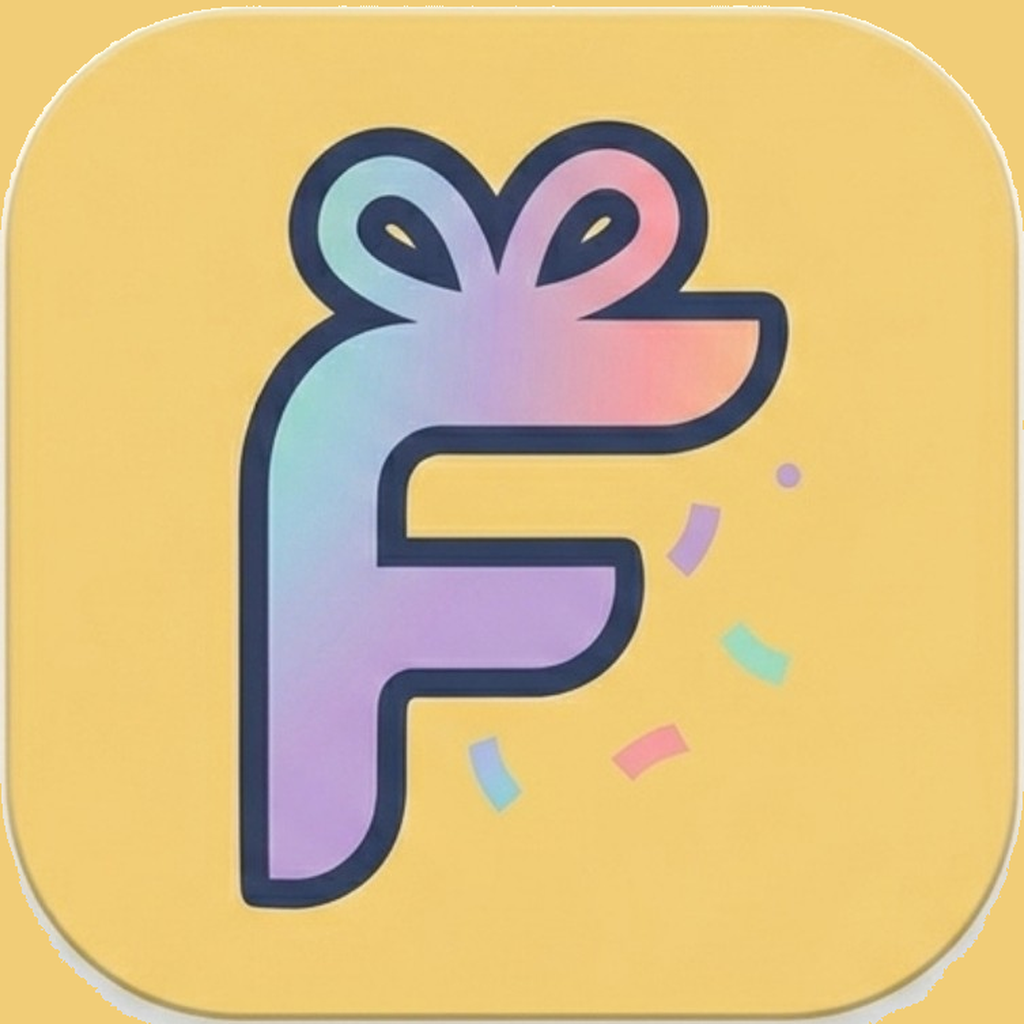
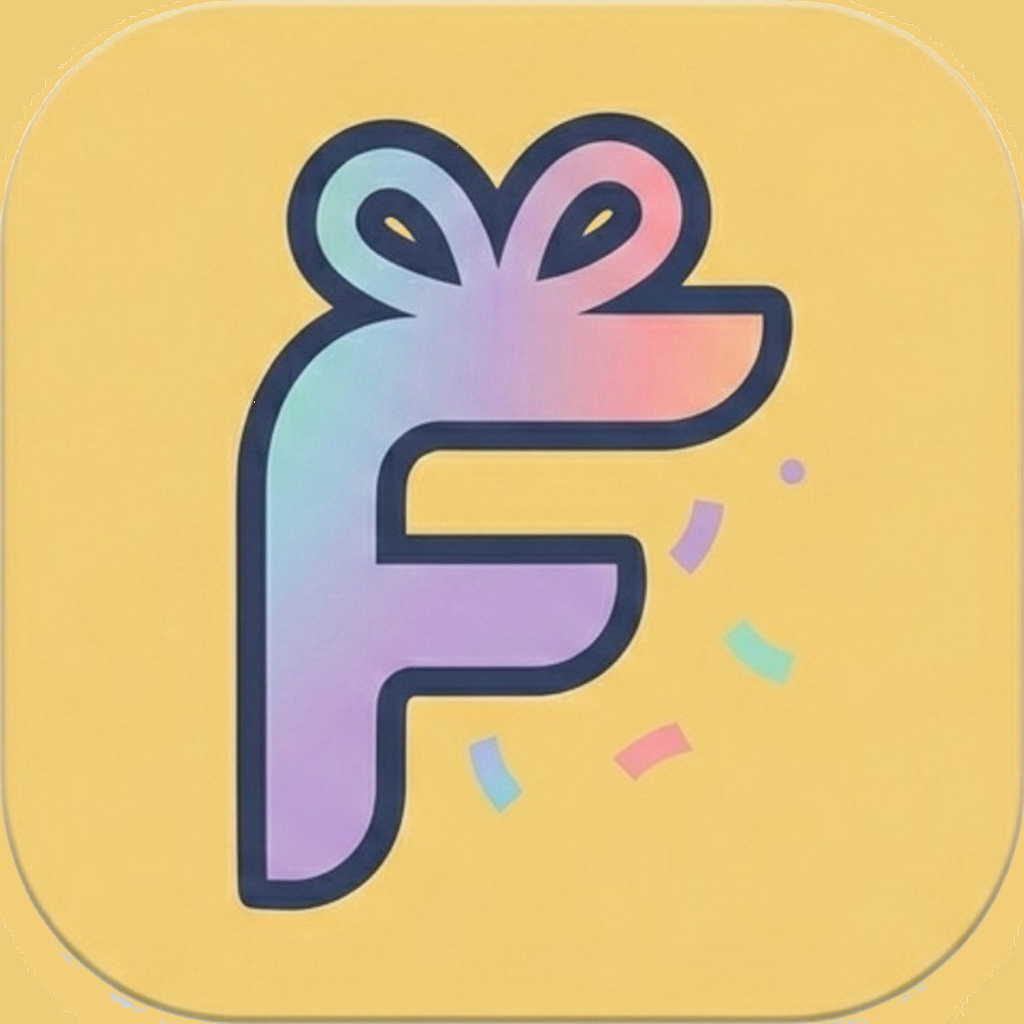
Swap in the holographic Fetifi lockup and yellow app cover.

diff --git a/web/src/components/brand.tsx b/web/src/components/brand.tsx
@@ -12,7 +12,7 @@ export function BrandLockup({
 }) {
   if (fillWidth) {
     return (
-      <span className={`relative block aspect-[774/495] w-full ${className}`}>
+      <span className={`relative block aspect-[994/544] w-full ${className}`}>
         <Image
           src={brand.logo}
           alt={`${brand.name}: ${brand.tagline}`}
@@ -30,8 +30,8 @@ export function BrandLockup({
     <Image
       src={brand.logo}
       alt={`${brand.name}: ${brand.tagline}`}
-      width={973}
-      height={427}
+      width={994}
+      height={544}
       className={`object-contain ${className}`}
       sizes="240px"
       unoptimized

diff --git a/web/src/lib/brand.ts b/web/src/lib/brand.ts
@@ -3,9 +3,9 @@ export const brand = {
   tagline: "Party in a box",
   description:
     "Turn a rough idea into a fully planned, ready-to-run event, on the web and on iPhone.",
-  logo: "/brand/logo.png?v=5",
-  mark: "/brand/logo-mark.png?v=5",
-  appCover: "/brand/app-icon.png",
+  logo: "/brand/logo.png?v=6",
+  mark: "/brand/logo-mark.png?v=6",
+  appCover: "/brand/app-icon.png?v=6",
 };
 
 export function productName() {

diff --git a/web/src/app/layout.tsx b/web/src/app/layout.tsx
@@ -19,7 +19,7 @@ export const metadata: Metadata = {
   description: brand.description,
   icons: {
     icon: brand.mark,
-    apple: brand.mark,
+    apple: brand.appCover,
   },
 };
 
